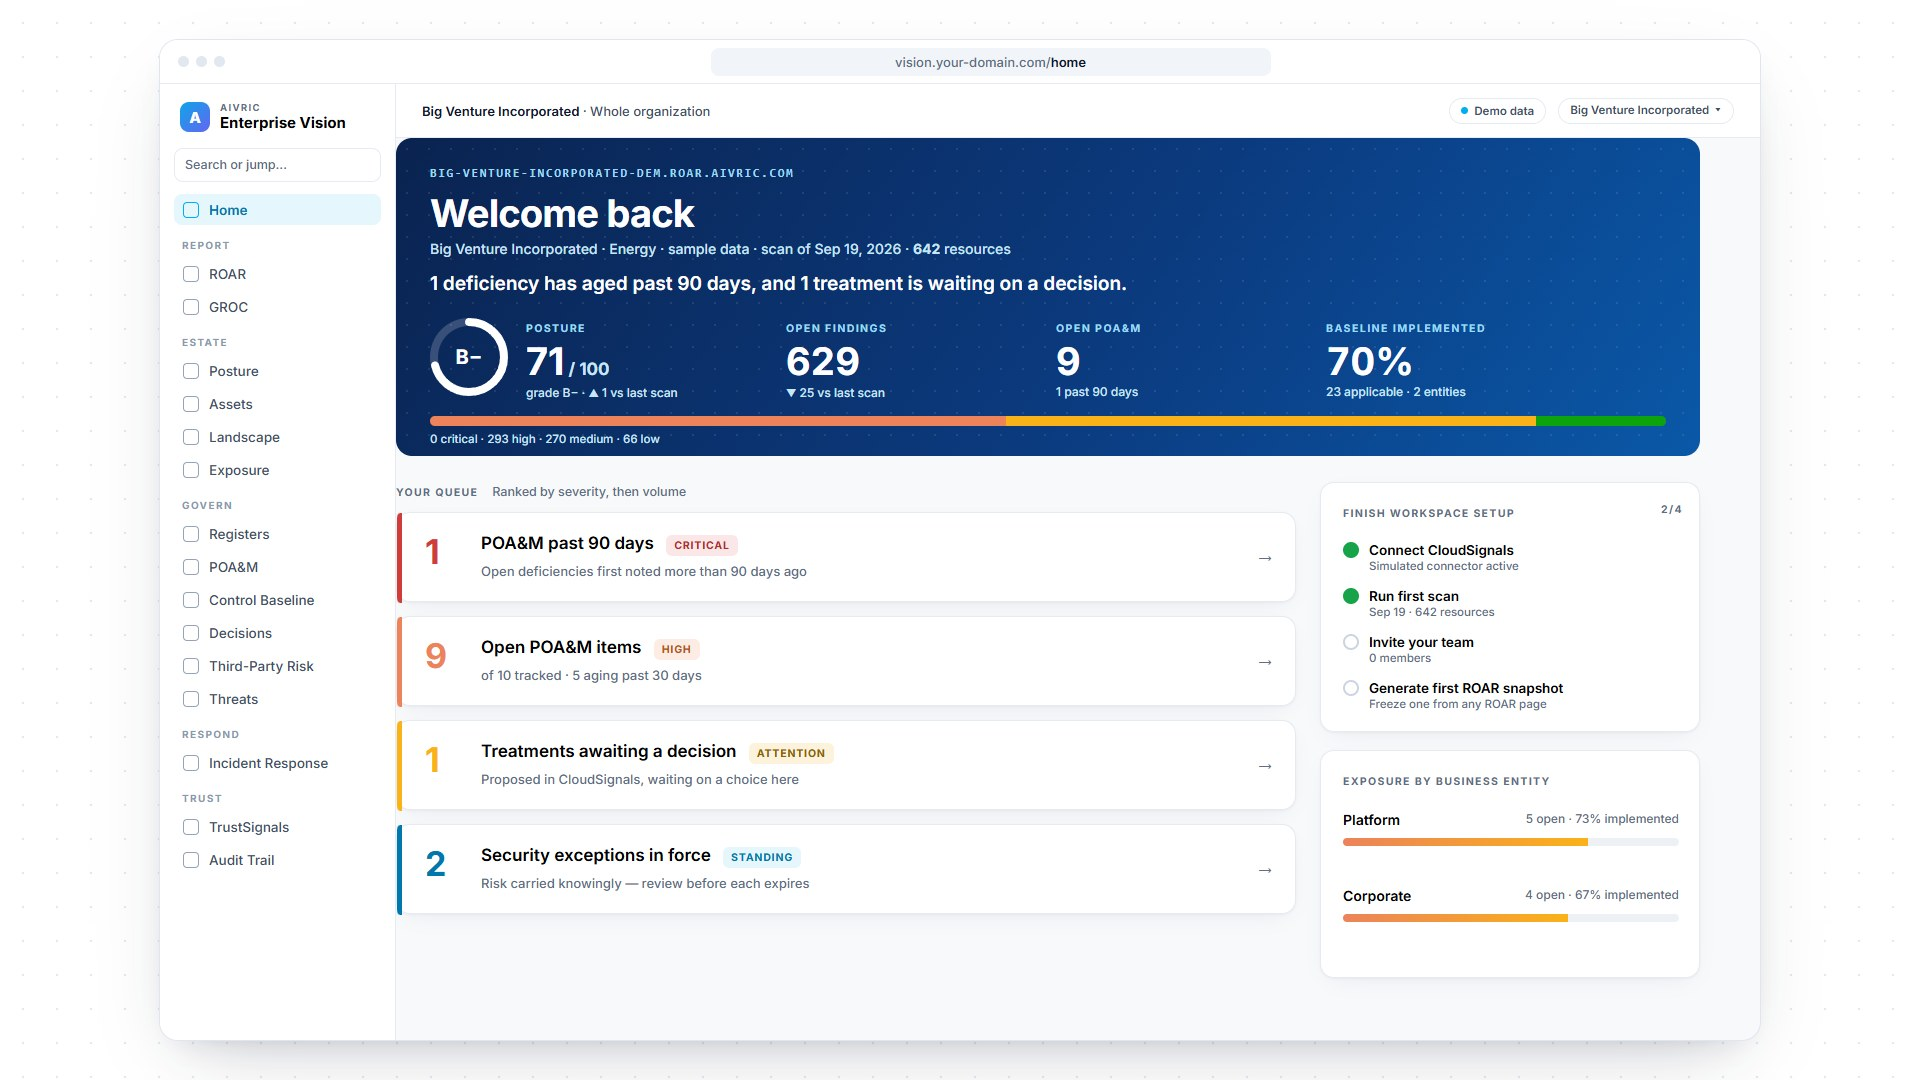
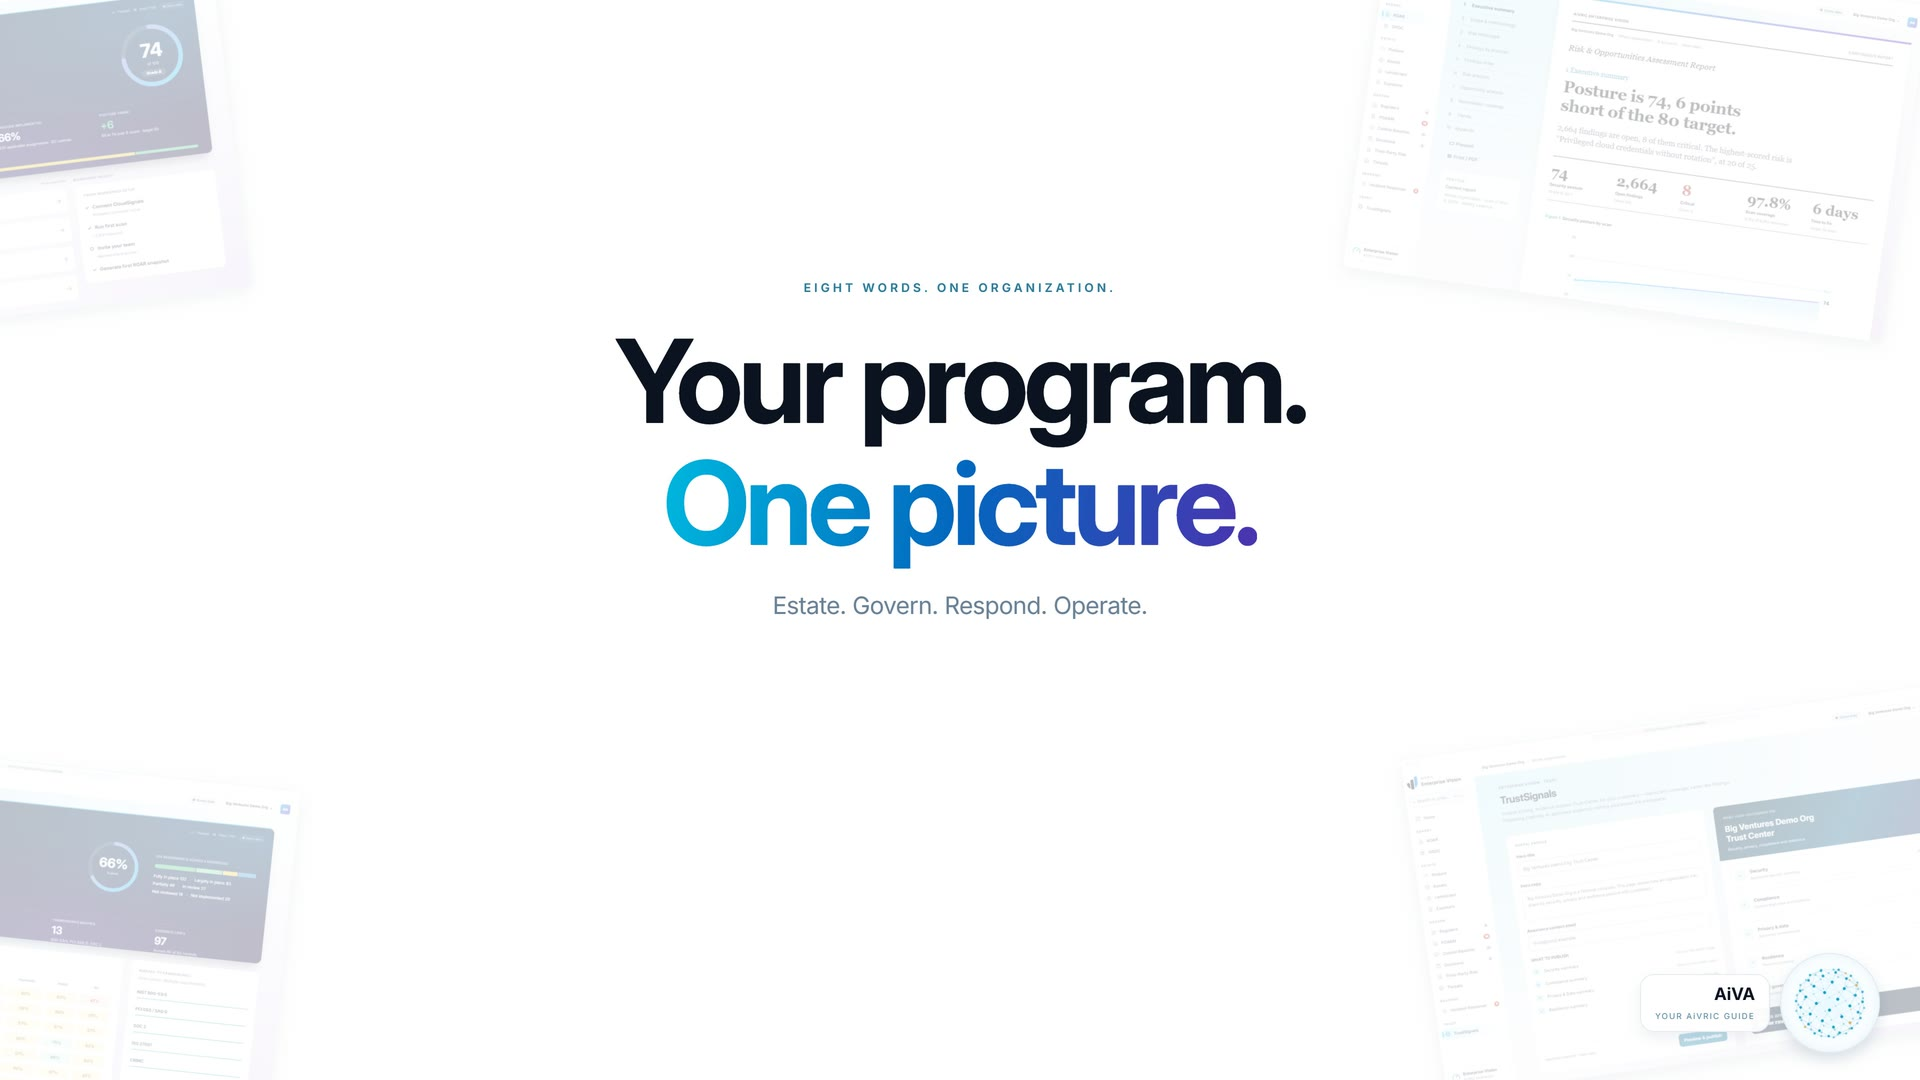
P3: /compliance plays the Enterprise Vision Overview from the media bucket, with captions and the film's poster

diff --git a/compliance/index.html b/compliance/index.html
@@ -94,13 +94,13 @@
             <a class="fw-btn fw-btn-primary" href="https://calendly.com/aivric-sales/aivric-walkthrough-demo?primary_color=00b8ff&amp;utm_source=aivric_com&amp;utm_medium=web&amp;utm_campaign=enterprise_vision&amp;utm_content=compliance_hub">Book a walkthrough</a>
             <a class="fw-btn fw-btn-ghost" href="#words">See the eight words</a>
           </div>
-          <!-- The film: set data-ready="true" once film/compliance-film.mp4 and film/compliance-film.vtt are in this folder.
-               Until then the frame shows the still (a rebuilt Enterprise Vision screen). -->
-          <figure class="fw-film" data-ready="false" data-film="film/compliance-film.mp4" data-captions="film/compliance-film.vtt"
+          <!-- The film: the Enterprise Vision Overview (1 min 57 s, 10 Nov 2026), the same cut /enterprise plays, from the
+               media bucket; the captions and the poster live here. -->
+          <figure class="fw-film" data-ready="true" data-film="https://storage.googleapis.com/aivric-site-media/films/enterprise-vision-overview-2026-11-10.mp4" data-captions="film/compliance-film.vtt"
                   data-label="See it. Score it. Prove it: continuous compliance in AiVRIC Enterprise Vision">
-            <img src="film/poster.jpg" alt="The Portal in AiVRIC Enterprise Vision: one security posture across every cloud account and finding, from a fictitious demo workspace" width="1920" height="1080" fetchpriority="high" decoding="async" />
+            <img src="film/poster.jpg" alt="Your program. One picture. The opening of the AiVRIC Enterprise Vision Overview" width="1920" height="1080" fetchpriority="high" decoding="async" />
           </figure>
-          <p class="fw-note">Screens rebuilt from the Big Venture Incorporated demo workspace in Enterprise Vision. All figures are sample data.</p>
+          <p class="fw-note">Narrated by AiVA, your AiVRIC guide. Product screens are from the Big Venture Incorporated demo workspace in Enterprise Vision; every figure in the film is sample data.</p>
         </div>
       </section>
 
